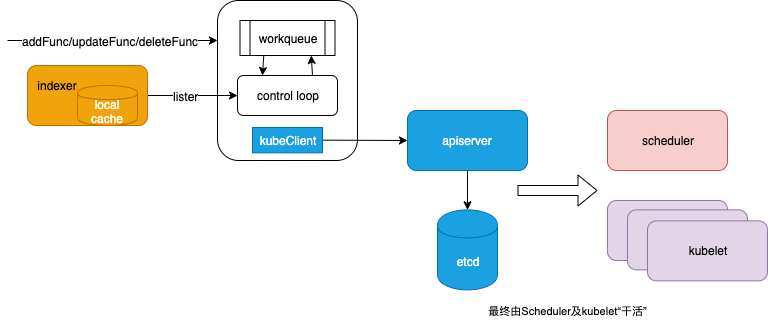
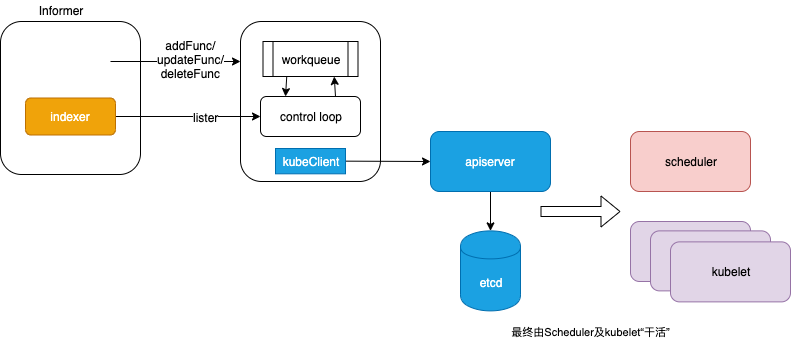
[fix]

diff --git a/_posts/Technology/Kubernetes/2019-03-07-kubernetes_controller.md b/_posts/Technology/Kubernetes/2019-03-07-kubernetes_controller.md
@@ -104,7 +104,7 @@ controller是一系列控制器的集合，不单指RC。
 从DeploymentController 及 ReplicaSetController 观察到的共同点
 
 1. struct 中都包含获取 决策所以依赖 资源的lister，对于DeploymentController 是DeploymentLister/ReplicaSetLister/PodLister ，对于ReplicaSetController 是ReplicaSetLister和 PodLister
-2. struct 中都包含 workqueue， control loop 每次循环都是 从workqueue.Get 数据开始的
+2. struct 中都包含 workqueue， workqueue 数据生产者是 Controller 注册到所以依赖的 Informer 的AddFunc/updateFunc/DeleteFunc，workqueue 数据消费者是  control loop ，每次循环都是 从workqueue.Get 数据开始的。 
 3. struct 都包含 kubeClient 类型为 clientset.Interface，controller 比对新老数据 将决策 具体为“指令”使用kubeClient写入 apiserver ，然后 scheduler 和 kubelet 负责干活儿。
 4. 相同的执行链条：`Run ==> go worker ==> for processNextWorkItem ==> syncHandler`。Run 方法作为 Controller 逻辑的统一入口，启动指定数量个协程，协程的逻辑为：`wait.Until(dc.worker, time.Second, stopCh)` ，control loop 具体为Controller 的worker 方法，for 循环具体为 `for processNextWorkItem(){}`，两个Controller 的processNextWorkItem 逻辑相似度 90%： 从queue 中get一个key，使用syncHandler 处理，处理成功就标记成功，处理失败就看情况将key 重新放入queue。
 
@@ -119,7 +119,13 @@ controller是一系列控制器的集合，不单指RC。
     }
     ```
 
+controller 与上下游的边界/接口如下图
+
 ![](/public/upload/kubernetes/controller_object.png)
+
+事实上，一个controller 通常依赖多个Informer
+
+![](/public/upload/kubernetes/controller_context.png)
 
 ### 外围——循环及数据获取
 
